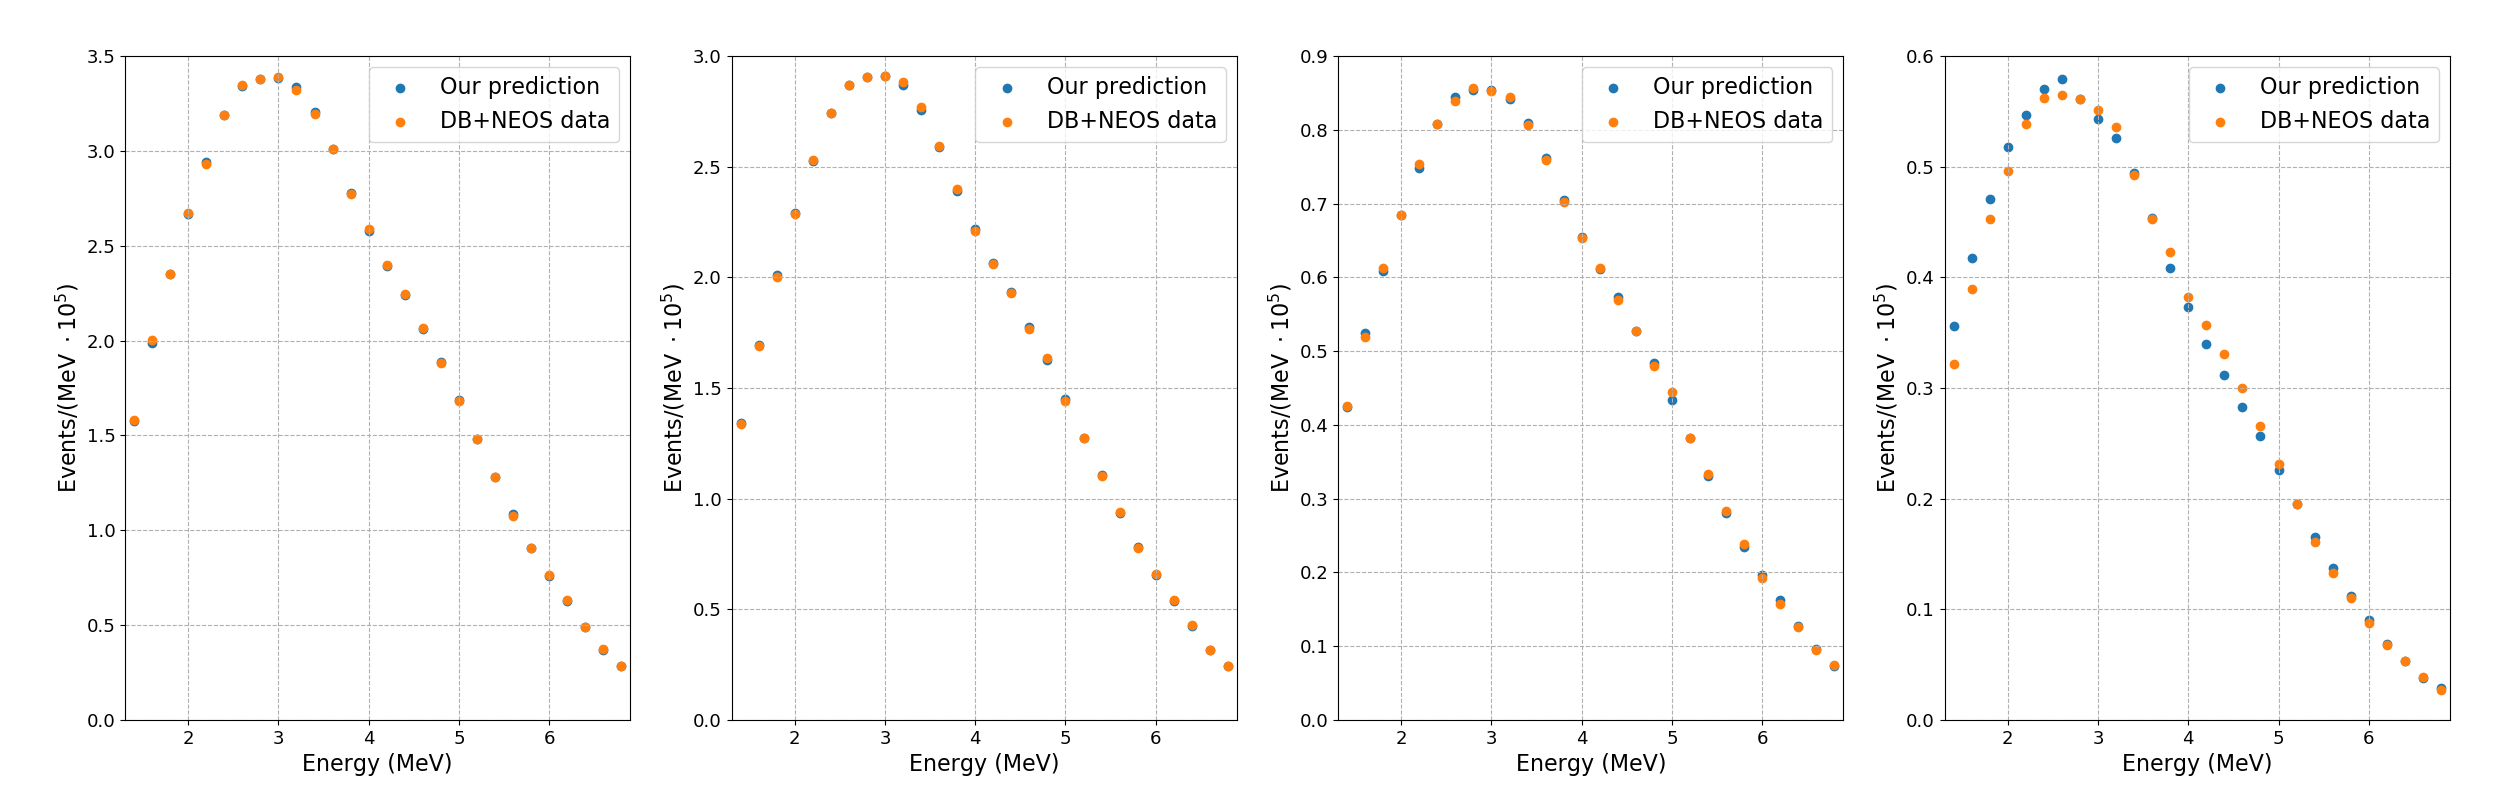
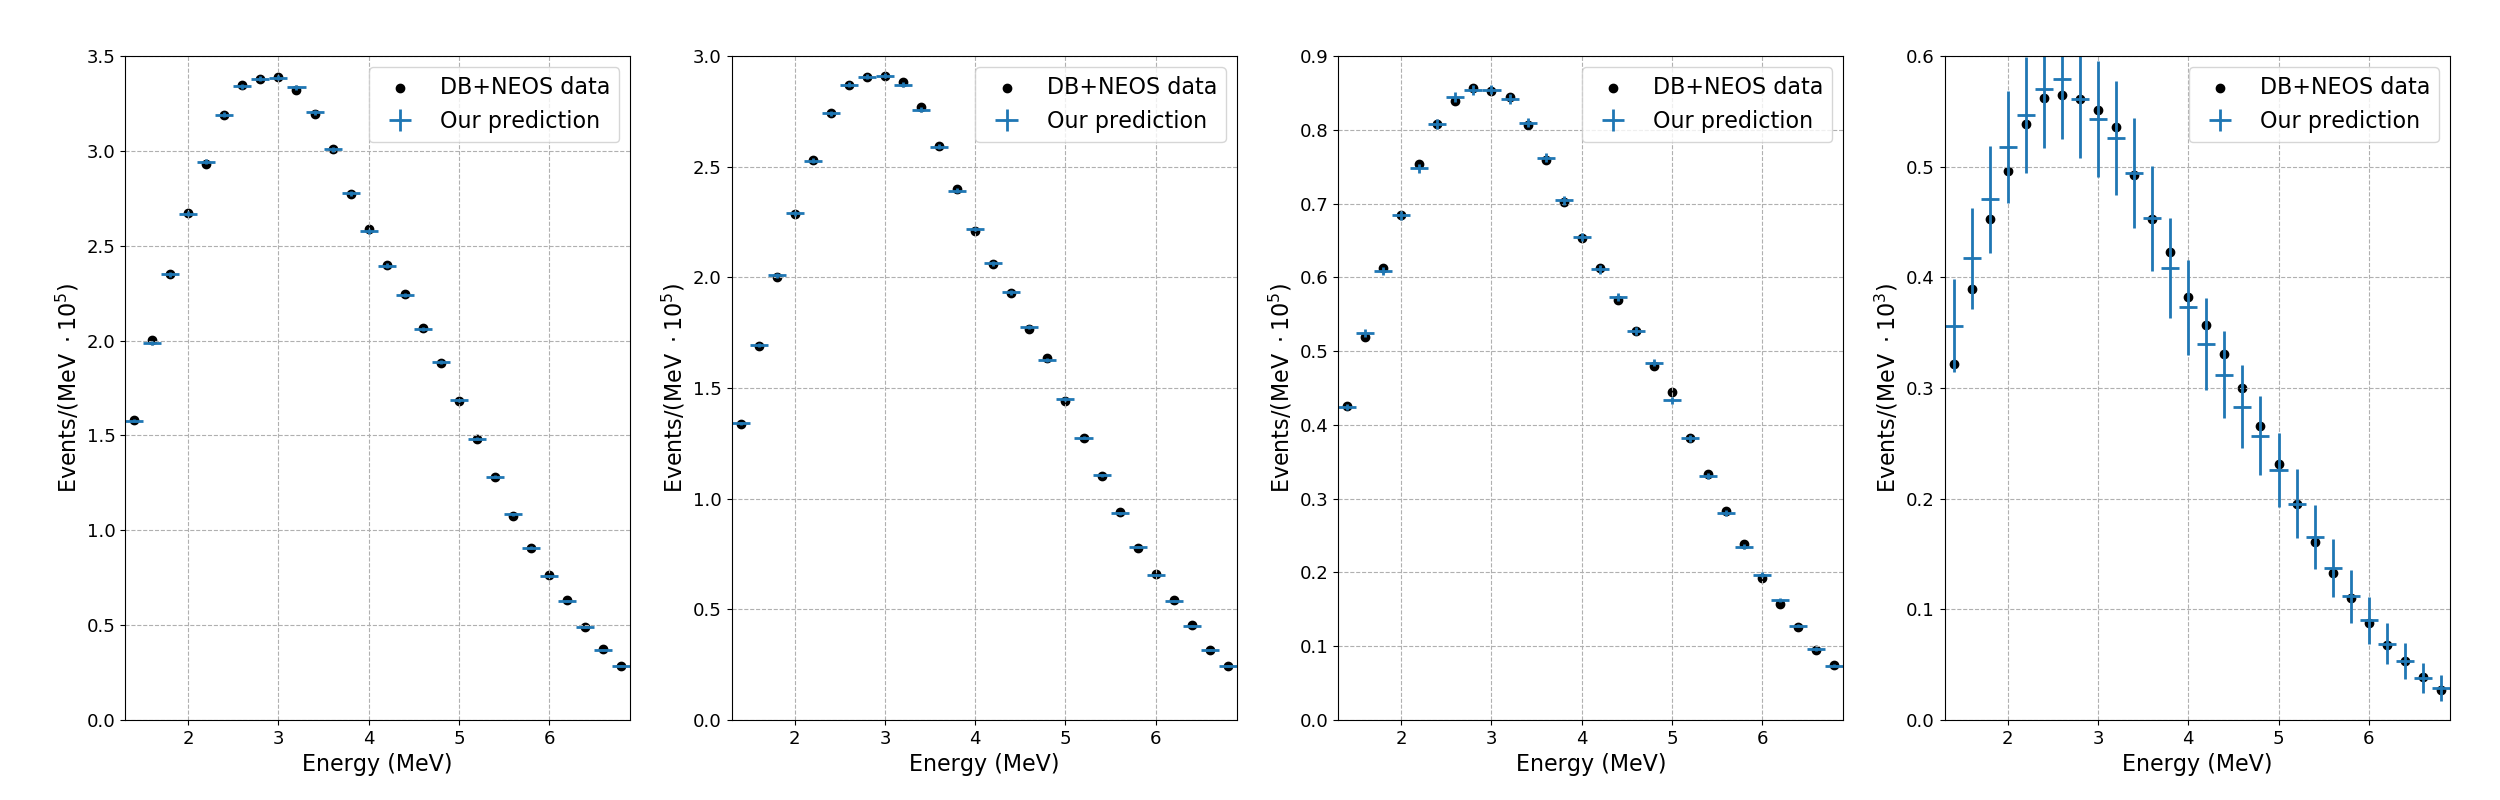
Implemented first chi2 global fit DB+NEOS.

diff --git a/GlobalFit/FitPlots.py b/GlobalFit/FitPlots.py
@@ -1,0 +1,63 @@
+import matplotlib.pyplot as plt
+import numpy as np
+import matplotlib
+from matplotlib import rc
+
+import os
+cwd = os.getcwd()
+path_to_style=cwd+'/Figures'
+# plt.style.use(path_to_style+r"/paper.mplstyle")
+
+# matplotlib.rcParams.update({'text.usetex': True})
+
+# matplotlib.rcParams['text.latex.preamble']=[r"\usepackage{amsmath}"]
+
+
+def txt_to_array(filename, sep = ","):
+    """
+    Input:
+    filename (str): the text file containing a matrix
+    which we want to read.
+
+    Output:
+    A numpy array of the matrix.
+    """
+    inputfile = open(filename,'r+')
+    file_lines = inputfile.readlines()
+
+    mat = []
+    for line in file_lines:
+        mat.append(line.strip().split(sep))
+    mat = np.array(mat).astype(np.float)
+    return mat
+
+# -------------------------------------------
+# Sterile stuff - plane wave
+# -------------------------------------------
+
+data = txt_to_array('SMSterileChi2.dat')
+# data[:,2] = data[:,2]-np.min(data[:,2])
+min_index = np.where(data[:,2] == np.min(data[:,2]))[0][0]
+bestfit = data[min_index]
+print(bestfit)
+nang = 9
+nmas = 10
+
+figSt,axSt = plt.subplots(figsize = (7,7))
+axSt.contour(data[:,1].reshape(nmas,nang),data[:,0].reshape(nmas,nang),(data[:,2]-np.min(data[:,2])).reshape(nmas,nang),levels = [2.30,6.18,11.83])
+# axSM.scatter(,0.07821,marker = '+', label = 'Coherent best fit')
+axSt.scatter(bestfit[1],bestfit[0],marker = '+', label = 'Our best fit')
+# axSM.scatter(2.471,0.0841, marker = '+', label = 'DB best fit')
+axSt.grid(linestyle = '--')
+axSt.legend(loc = 'upper right', fontsize = 16)
+axSt.tick_params(axis='x', labelsize=13)
+axSt.tick_params(axis='y', labelsize=13)
+axSt.set_xscale('log')
+axSt.set_yscale('log')
+axSt.set_ylabel(r"$\Delta m^2_{14} (eV^2)$", fontsize = 16)
+axSt.set_xlabel(r"$\sin^2 2 \theta_{14}$", fontsize = 16)
+axSt.set_xlim([1e-3,1])
+axSt.set_ylim([1e-2,10])
+# figSt.suptitle(r'Sterile PW best fit: $\Delta m^2_{14} = 1.8·10^{-2} eV^2$, $\sin^2 2\theta_{14} = 0.00346$', fontsize = 17)
+figSt.suptitle('Best fit:'+str(bestfit))
+figSt.savefig('Figures/SterilePWContour.png')

diff --git a/GlobalFit/EventExpectationPlots.py b/GlobalFit/EventExpectationPlots.py
@@ -33,14 +33,15 @@ print(begin_time-end_time)
 axis = [[1.3,6.9,0.,3.5],[1.3,6.9,0.,3.],[1.3,6.9,0.,0.9],[1.3,6.9,0.,0.6]]
 norm = [1e5,1e5,1e5,1e3]
 
+print(pred[fitter.sets_names[3]][:,1]/deltaE/norm[3])
 
 for i in range(4):
-    axev[i].scatter(x_ax,pred[fitter.sets_names[i]][:,0]/deltaE/norm[i], label = "Our prediction")
-    axev[i].scatter(x_ax,fitter.AllData[fitter.sets_names[i]][:,0]/deltaE/norm[i], label = "DB+NEOS data")
+    axev[i].errorbar(x_ax,pred[fitter.sets_names[i]][:,0]/deltaE/norm[i], yerr = pred[fitter.sets_names[i]][:,1]/deltaE/norm[i], xerr = 0.1, label = "Our prediction", fmt = "_", elinewidth = 2)
+    axev[i].scatter(x_ax,fitter.AllData[fitter.sets_names[i]][:,0]/deltaE/norm[i], label = "DB+NEOS data",color = "black")
     # axev[i].scatter(x_ax,pred[1][DB_test.sets_names[i]][:,0]/deltaE/1.e5,marker="+",color = "blue", label = "Our no oscillations")
     # axev[i].scatter(x_ax,DB_test.AllData[DB_test.sets_names[i]][:,5]/deltaE/1.e5,marker="+",color = "red", label = "DB no oscillations")
     axev[i].set_xlabel("Energy (MeV)", fontsize = 16)
-    axev[i].set_ylabel("Events/(MeV$\ \cdot 10^{5}$)", fontsize = 16)
+    axev[i].set_ylabel("Events/(MeV$\ \cdot 10^{%i}$)"%(np.log10(norm[i])), fontsize = 16)
     axev[i].tick_params(axis='x', labelsize=13)
     axev[i].tick_params(axis='y', labelsize=13)
     axev[i].axis(axis[i])
@@ -63,7 +64,7 @@ for i in range(4):
     evex = pred[fitter.sets_names[i]][:,0]
     axchi[i].scatter(x_ax,-2*(data-evex+data*np.log(evex/data)), label = "Chi2")
     # axev[i].scatter(x_ax,pred[1][DB_test.sets_names[i]][:,0]/deltaE/1.e5,marker="+",color = "blue", label = "Our no oscillations")
-    # axev[i].scatter(x_ax,DB_test.AllData[DB_test.sets_names[i]][:,5]/deltaE/1.e5,marker="+",color = "red", label = "DB no oscillations")
+    # axev[i].scatter(x_ax,DB_test.AllData[DB_test.sets_names[i]][:,5]/deltaE/1.e5,marker="+",color = "red", label = "DB no oscillations")  
     axchi[i].set_xlabel("Energy (MeV)", fontsize = 16)
     axchi[i].set_ylabel("Arbitrary units", fontsize = 16)
     axchi[i].tick_params(axis='x', labelsize=13)

diff --git a/GlobalFit/SterileFit.py b/GlobalFit/SterileFit.py
@@ -1,0 +1,28 @@
+import GlobalFit as GF
+import Models
+import time
+
+import numpy as np
+
+fitter = GF.GlobalFit()
+
+
+datmass = np.logspace(-2,1,10)
+datangl = np.logspace(-3,-0.5,9)
+
+def getChi2(mass = 2.5e-3,angl = 0.0841):
+    model = Models.PlaneWaveSterile(Sin22Th14 = angl, DM2_41 = mass)
+    chi2 = fitter.get_poisson_chi2(model)
+    print(mass,angl,chi2)
+    return chi2
+
+# print("Referència best-fit DB:", 0.0841, 2.5e-3,getChi2())
+
+file = open('SMSterileChi2.dat','w')
+for m in datmass:
+    for a in datangl:
+        file.write('{0:1.5f},{1:1.5f},{2:7.4f}\n'.format(m,a,getChi2(m,a)))
+
+# HA QUEDAT ESCRIU A L'ARXIU!!!!!!!!
+
+file.close()

diff --git a/NEOS/NEOSData.py b/NEOS/NEOSData.py
@@ -29,6 +29,9 @@ dir = os.path.dirname(os.path.abspath(__file__))+"/Data/"
 #  RECONSTRUCTION MATRIX FUNCTION
 # -------------------------------------------------------------
 
+
+# The reconstruction matrix has a long tail at low energies, as is
+# explained in 1609.03910. 
 def gaussian(x,mu,sig):
     return 1/(np.sqrt(2*np.pi)*sig)*np.exp(-(x-mu)**2/sig**2)
 
